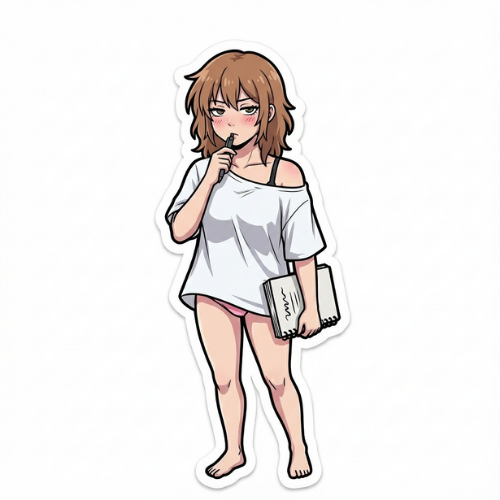
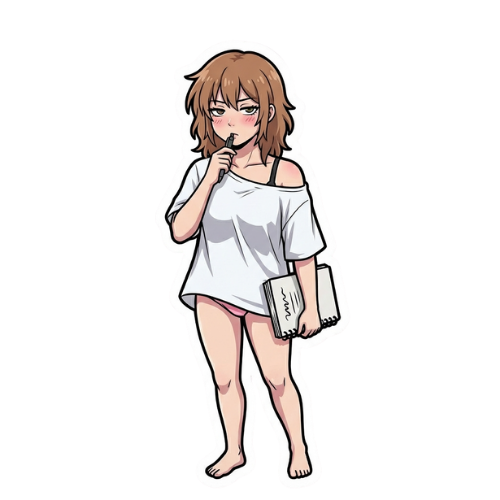
修正：ギャラリーレイアウトを元の配置に戻す + 画像更新
- キャラクター配置をcommit 0a3e557の状態に復元
- overflow-visibleに戻してポップアウト効果を復活
- maxHeight: 340px, height: 260pxの元サイズに戻す
- PFTN_gallery.png (冷めた脚本家) を更新

🤖 Generated with [Claude Code](https://claude.ai/code)

diff --git a/src/app/gallery/page.tsx b/src/app/gallery/page.tsx
@@ -27,25 +27,21 @@ function CharacterImageWithFallback({ typeCode, name, index }: { typeCode: strin
   }
   
   return (
-    <div className="relative w-full h-[320px] flex justify-center items-end overflow-hidden px-1">
-      <div className="relative w-full h-full flex items-end justify-center">
-        <Image 
-          src={`/characters/${typeCode}_gallery.png`}
-          alt={name}
-          width={400}
-          height={400}
-          sizes="(max-width: 768px) 300px, 350px"
-          className="object-contain transition-all duration-300 character-popout"
-          style={{
-            maxHeight: '300px',
-            maxWidth: '95%',
-            width: 'auto',
-            height: 'auto'
-          }}
-          onError={() => setImageError(true)}
-          priority={index < 4}
-        />
-      </div>
+    <div className="relative w-full h-[260px] flex justify-center overflow-visible">
+      <Image 
+        src={`/characters/${typeCode}_gallery.png`}
+        alt={name}
+        width={500}
+        height={500}
+        sizes="(max-width: 768px) 100vw, 50vw"
+        className="object-contain transition-all duration-300 character-popout"
+        style={{
+          maxHeight: '340px',
+          width: 'auto'
+        }}
+        onError={() => setImageError(true)}
+        priority={index < 4}
+      />
     </div>
   )
 }
@@ -145,7 +141,7 @@ function GalleryContent() {
                 <div className="relative overflow-hidden">
                 
                 {/* キャラクター画像 - ポップアウト効果 */}
-                <div className="relative min-h-[320px] mb-1 overflow-hidden">
+                <div className="relative min-h-[280px] mb-1 overflow-visible">
                   {selectedGender === 'female' ? (
                     <div className="relative h-full flex items-end justify-center">
                       <CharacterImageWithFallback 
